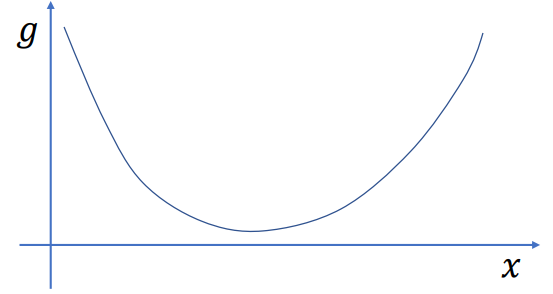
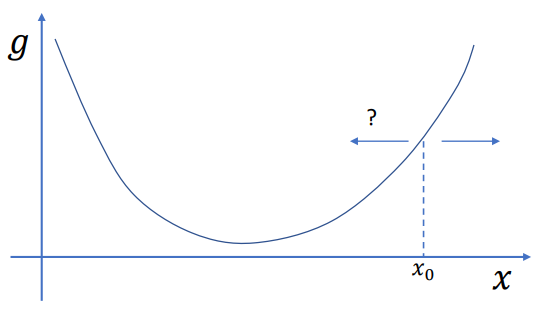
-

diff --git a/markdown/实时物理计算/taichi/笔记-2021-12-11.md b/markdown/实时物理计算/taichi/笔记-2021-12-11.md
@@ -40,5 +40,14 @@ $$
 此时问题就转化为求解$\nabla _xg(x_{n+1})=0$，也就是求argmin  
 ### 求解 凸函数最小值问题 min g(x)  
 看起来也是个经典的数学问题，凸优化。很多问题都可以转为凸优化问题。    
-先假设$g(x)$是一个凸函数
-<div align=center><img src="../../../img/physics/lesson-taichi-9-1.png"><div>假设的函数图像，虽然是凹的，但叫凸函数</div></div>   
+先假设$g(x)$是一个凸函数，$x_0$是当前的位置，需要知道在$x_0$处向哪个方向移动，移动多远，到达最小值处。  
+<div align=center><img src="../../../img/physics/lesson-taichi-9-1.png"><div>假设的函数图像，虽然是凹的，但叫凸函数。</div></div>   
+
+一个方式是求梯度来判断方向，$dx=-\nabla _xg(x)$  
+<div align=center><img src="../../../img/physics/lesson-taichi-9-2.png"><div></div></div>   
+
+另一个方式是牛顿法，求二阶导数，$dx=-(\nabla ^2_xg(x))^{-1}\nabla _xg(x)$  
+<div align=center><img src="../../../img/physics/lesson-taichi-9-3.png"><div>牛顿法的事实上是前进到一个和g(x)相切的函数的最小值处</div></div>   
+
+这两种方式能够得出方向，随后就是步进，有点像ray-march  
+此处课程给出了[一个凸优化课程的链接](https://web.stanford.edu/~boyd/cvxbook/)
